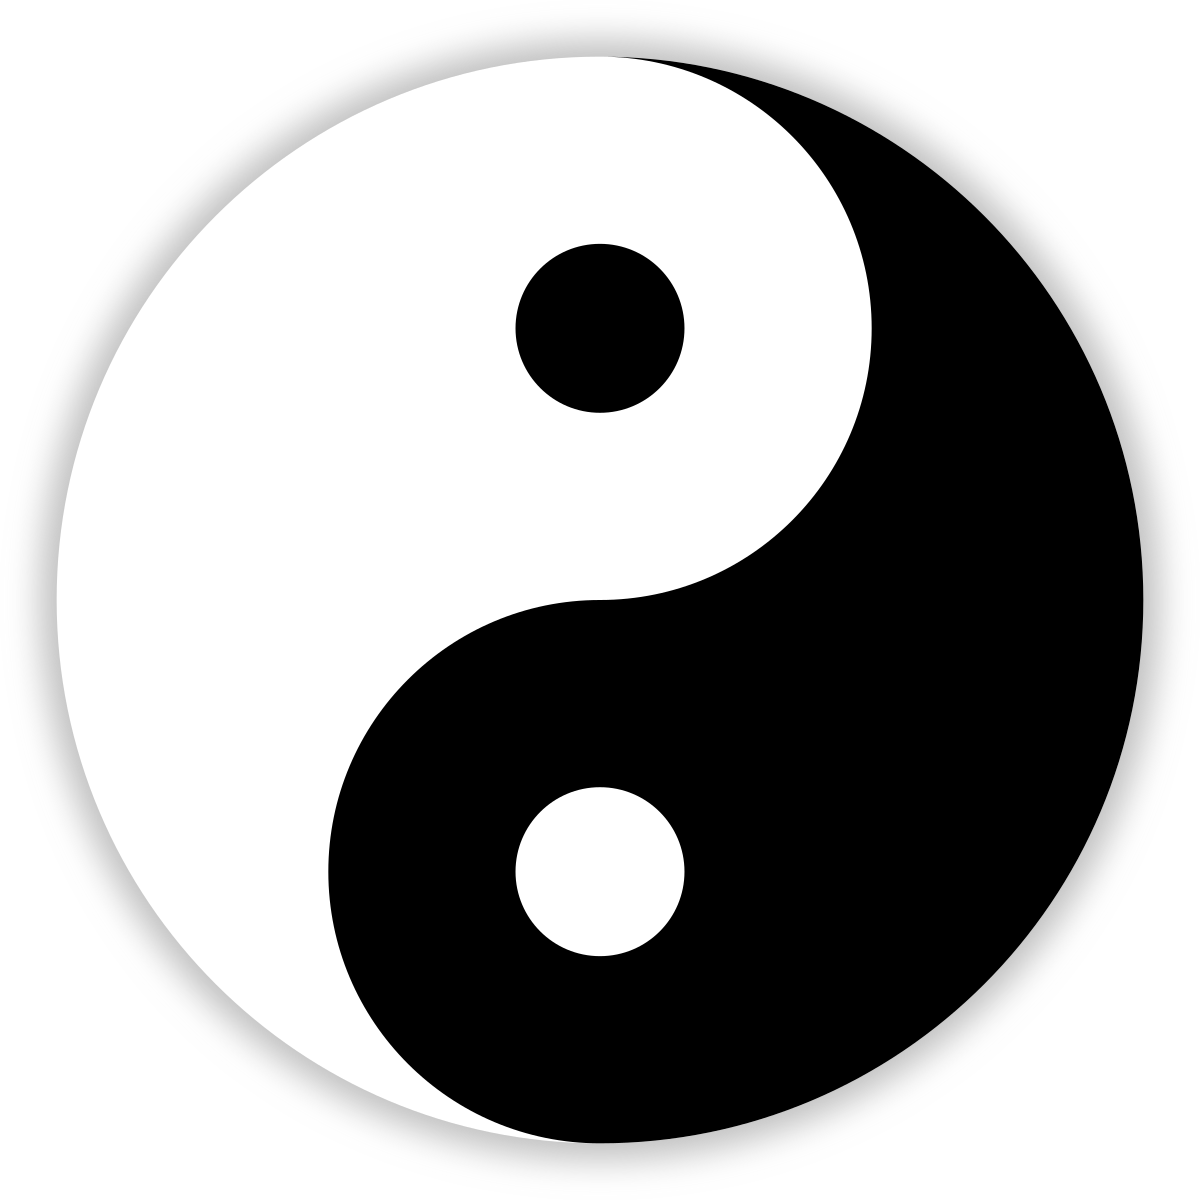
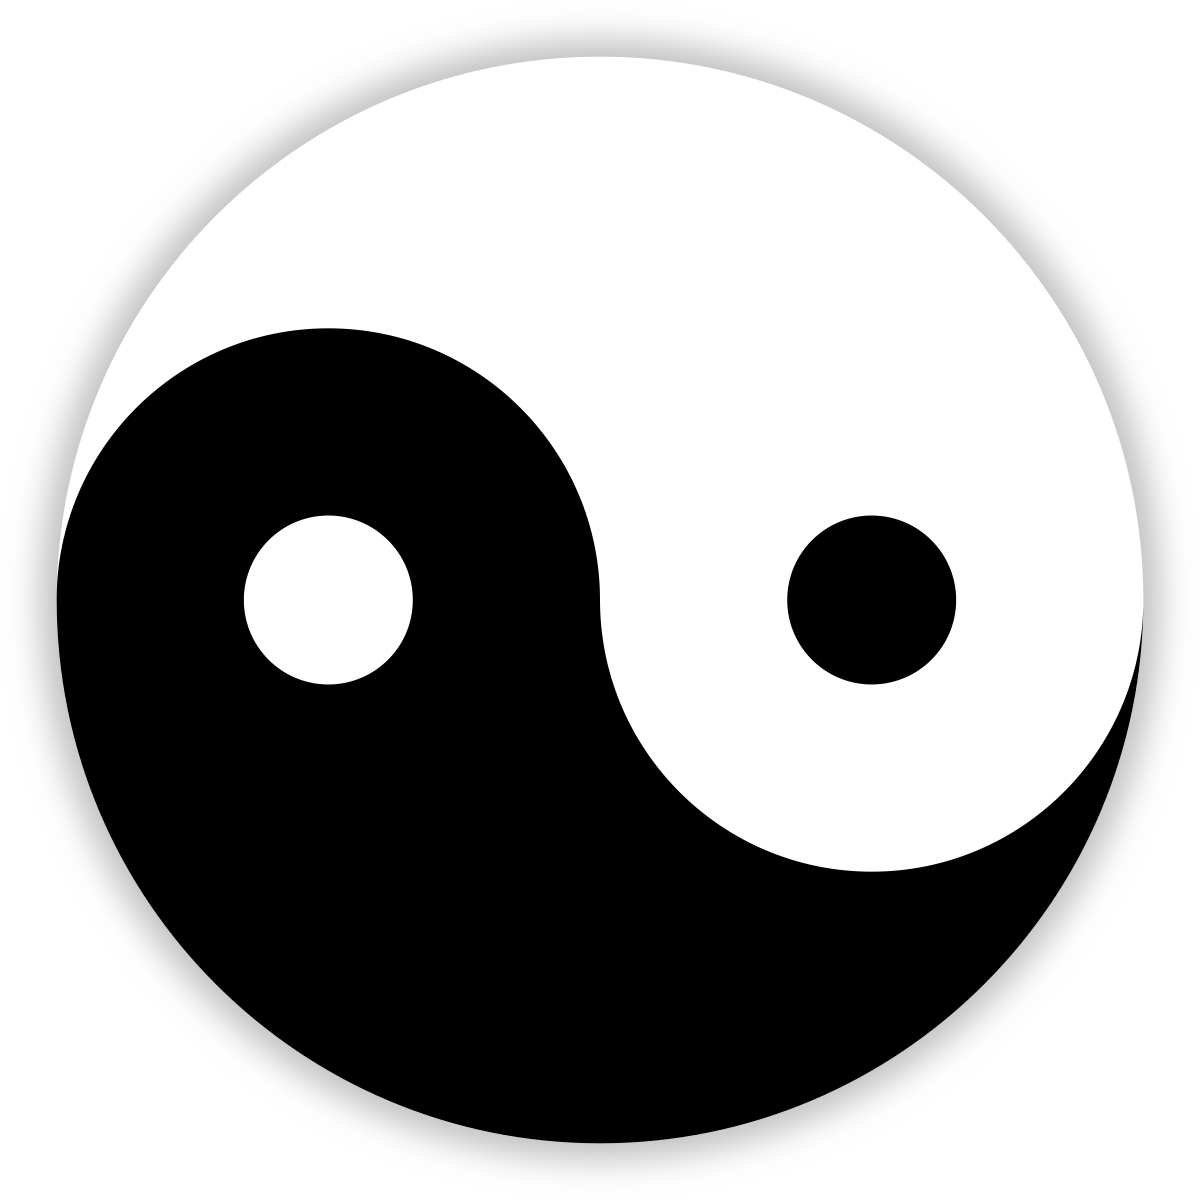
added more pages, and added style

diff --git a/public/index.html b/public/index.html
@@ -17,6 +17,21 @@
             padding-left: 60px;
             text-align: 200px;
             background-color: black;
+            z-index: 9998;
+            
+        }
+        .persistent2 {
+            position: fixed;
+            top: 0;
+            width:30px;
+            height:50px;
+            margin: 10px;
+            left: 715px;
+            color: black;
+            padding-left: 60px;
+            text-align: 200px;
+            background-color: white;
+            z-index: 9998;
             
         }
 
@@ -28,8 +43,22 @@
             margin: 10px;
             left: 525px;
             color: white;
+            z-index: 9999;
             
         }
+
+        .yang {
+            position: fixed;
+            top: 05px;
+            width:30px;
+            height:50px;
+            margin: 10px;
+            left: 725px;
+            color: black;
+            z-index: 9999;
+            
+        }
+
             #ting {animation: spin 2.5s infinite linear;}
             @keyframes spin {
             100% {transform-origin: center; transform: rotate(360deg);}
@@ -58,8 +87,12 @@
 
     <body id="body">
 
-        <h1 class="persistent">
+        <h1 class="persistent" href="yin.html">
             <p class="yin"><a href="yin.html" style="text-decoration: none;color: white;">yin</a></p>
+        </h1>
+
+        <h1 class="persistent2" href="yang.html">
+            <p class="yang"><a href="yang.html" style="text-decoration: none;color: black;">yang</a></p>
         </h1>
 
 

diff --git a/public/yang.html b/public/yang.html
@@ -1,0 +1,44 @@
+<!DOCTYPE html>
+<head>
+    <style>
+        
+        .fade {
+        color: blueviolet;
+        text-align: center;
+        animation: fade-in 1.5s 1 linear;}
+
+        .main { 
+            border: thick double blueviolet; 
+            width: 500px;
+            text-align: center;
+            margin:0% auto;
+            animation: fade-in 1.5s 1 linear;
+            animation-delay: 1.5s;
+            animation-fill-mode: forwards;
+            opacity: 0;
+        }
+
+        @keyframes fade-in {
+                0% {
+                    opacity: 0;
+                }
+                25% {
+                    opacity: 0.25;
+                }
+                50% {
+                    opacity: 0.5;
+                }
+                100% {
+                    opacity: 1;
+                }
+        }
+    </style>
+
+    <body style="background-color: rgb(69, 69, 61);">
+        <title>About me (Not)</title>
+        <h1 style="text-align: center;"><p class="fade">NOT</p>About Me</h1>
+
+        <div class="main">ow<br>ow<br><br><br><br><br><br><br><br><br><br><br><br></div>
+        <img src="flying.gif">
+    </body>
+</head>

diff --git a/public/yin.html b/public/yin.html
@@ -43,9 +43,6 @@
                     opacity: 1;
                 }
             }
-        @keyframes up {
-            
-        }
     </style>
     <body style="background-color: antiquewhite;">
         <h1 class="fade">About me</h1>
